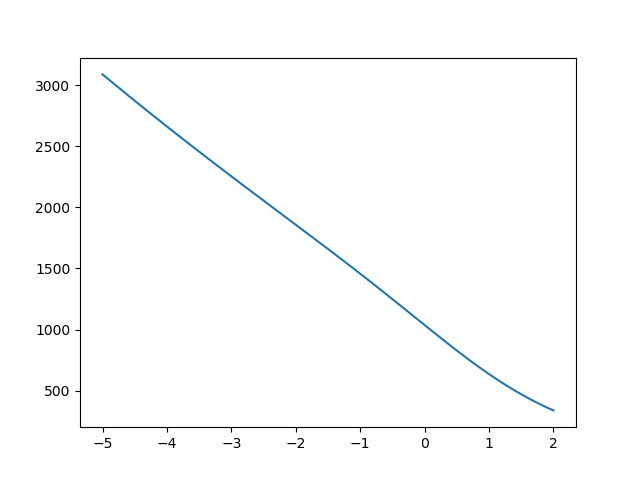
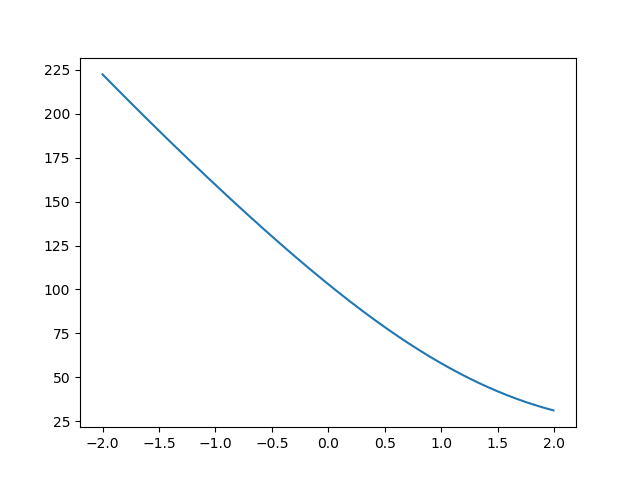
edited README

diff --git a/src/eval_chi2.py b/src/eval_chi2.py
@@ -31,7 +31,7 @@ def main():
     # uncomment your galaxy sample of choice
     #sample = "iifsc"
     #sample = "galex"
-    sample = "svm"
+    sample = "rm"
     #sample = "scos"
     print("using %s sample\n" % sample)
     outpath = '../outputs'
@@ -86,15 +86,15 @@ def main():
         dr3=fitsio.read(os.path.join(outpath,'dustCorr_dr_orthonorm-v3.fits')) # 
         rr3=fitsio.read(os.path.join(outpath,'dustCorr_rr_orthonorm-v3.fits')) # 
 
-    elif(sample=='svm'):
-        ddust=fitsio.read(os.path.join(outpath,'dustCorr_dd_orthonorm-vdust-desSVM.fits')) # The dust signal -- real fg x real background 
-        frdust=fitsio.read(os.path.join(outpath,'dustCorr_fr_orthonorm-vdust-desSVM.fits')) # random fg x background
-        dd1=fitsio.read(os.path.join(outpath,'dustCorr_dd_orthonorm-v1-desSVM.fits')) # The dust signal -- real fg x real background 
-        fr1=fitsio.read(os.path.join(outpath,'dustCorr_fr_orthonorm-v1-desSVM.fits')) # fg x random background
-        dd2=fitsio.read(os.path.join(outpath,'dustCorr_dd_orthonorm-v2-desSVM.fits')) # The dust signal -- real fg x real background 
-        fr2=fitsio.read(os.path.join(outpath,'dustCorr_fr_orthonorm-v2-desSVM.fits')) # fg x random background
-        dd3=fitsio.read(os.path.join(outpath,'dustCorr_dd_orthonorm-v3-desSVM.fits')) # The dust signal -- real fg x real background 
-        fr3=fitsio.read(os.path.join(outpath,'dustCorr_fr_orthonorm-v3-desSVM.fits')) # fg x random background
+    elif(sample=='rm'):
+        ddust=fitsio.read(os.path.join(outpath,'dust_correlation_dd_orthonorm-vdust-rm.fits')) # The dust signal -- real fg x real background 
+        frdust=fitsio.read(os.path.join(outpath,'dust_correlation_fr_orthonorm-vdust-rm.fits')) # random fg x background
+        dd1=fitsio.read(os.path.join(outpath,'dust_correlation_dd_orthonorm-v1-rm.fits')) # The dust signal -- real fg x real background 
+        fr1=fitsio.read(os.path.join(outpath,'dust_correlation_fr_orthonorm-v1-rm.fits')) # fg x random background
+        dd2=fitsio.read(os.path.join(outpath,'dust_correlation_dd_orthonorm-v2-rm.fits')) # The dust signal -- real fg x real background 
+        fr2=fitsio.read(os.path.join(outpath,'dust_correlation_fr_orthonorm-v2-rm.fits')) # fg x random background
+        dd3=fitsio.read(os.path.join(outpath,'dust_correlation_dd_orthonorm-v3-rm.fits')) # The dust signal -- real fg x real background 
+        fr3=fitsio.read(os.path.join(outpath,'dust_correlation_fr_orthonorm-v3-rm.fits')) # fg x random background
 
 
     else:
@@ -125,8 +125,8 @@ def main():
 
         
     # generate an alpha parameter array for each ON vector:
-    print("#\n#minimizing the chi2 function (alpha*kappa_norm - kappa2_norm)**2\n#")
-    alpha_arr=np.arange(-2, 1, 0.0005)
+    print("#\n#minimizing the chi2 function (alpha*kappaFid_norm - kappa1/2/3_norm)**2\n#")
+    alpha_arr=np.arange(-2, 2, 0.0005)
     chi2_arr=np.zeros_like(alpha_arr)
     for i,alpha in enumerate(alpha_arr):
           chi2_arr[i]=chi2(alpha,kappaDust_norm,sigmaDust,kappa3_norm,sigma3)
@@ -137,11 +137,11 @@ def main():
 
 
     # do same thing, but with a beta on the k1 values
-    print("#\n#minimizing the chi2 (beta*kappa_norm - kappa2_norm)**2\n#")
-    beta_arr=np.arange(-5., 2., 0.0005)
+    print("#\n#minimizing the chi2 (kappaFid_norm - beta*kappa1/2/3_norm)**2\n#")
+    beta_arr=np.arange(-2., 2., 0.005)
     chi2_arr=np.zeros_like(beta_arr)
     for i,beta in enumerate(beta_arr):
-          chi2_arr[i]=chi2_beta(beta,kappaDust_norm,sigmaDust,kappa3_norm,sigma3)       
+          chi2_arr[i]=chi2_beta(beta,kappaDust_norm,sigmaDust,kappa3_norm,sigma3)  
     print("%f is best-fit beta of propotionality" % (beta_arr[chi2_arr==min(chi2_arr)]))   
     print("reduced chi2 for beta is %f\n" %(min(chi2_arr)/12.))
     make_a_chi2_plot(beta_arr,chi2_arr,n='betachi2_vdust.png')

diff --git a/writeup/dust_halos.tex b/writeup/dust_halos.tex
@@ -66,7 +66,7 @@ Beyond the Peek and Menard measurements, investigators have searched for dust-in
 \1 Discuss samples that we used: 
 	\2 redMaGiC as background (discuss algorithm, add some plots of color variance with MLE or color-color plots)
 		\3 area covers: $290\degree \lesssim \alpha \lesssim 110\degree$
-	\2 GALEX and (maybe) IIFSCz
+	\2 GALEX
 	\3 DES with SVM
 \1 Also SVM for DES foreground sample 
 	\2 give some characteristics
@@ -87,7 +87,7 @@ Beyond the Peek and Menard measurements, investigators have searched for dust-in
 \begin{outline}
 \1 Plot up all the results I do have... with dust vector, "optimal" vector for all samples 
 \1 MB show the "dust mass plot" but maybe also skip because it's not really a dust mass
-\1 Star-bkg correlation is a good null test to show 
+\1 Star-bkg correlation is a good null test to show, as is very interesting red magic autocorrelations
 \end{outline}
 
 \section{Conclusions\label{sec:conclusions}}